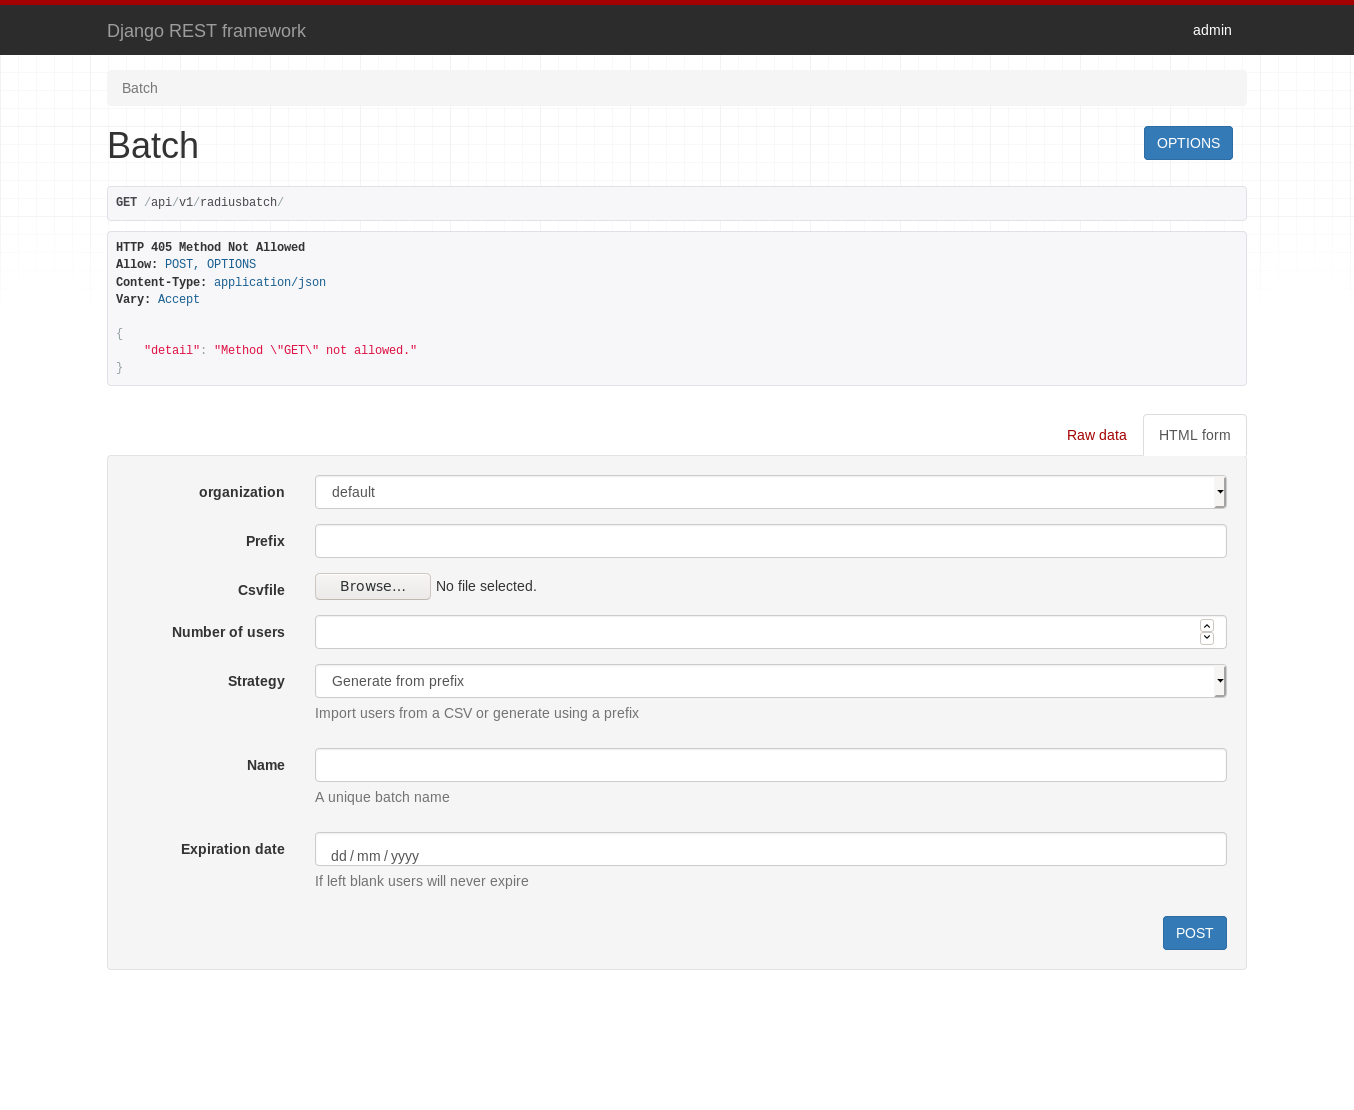
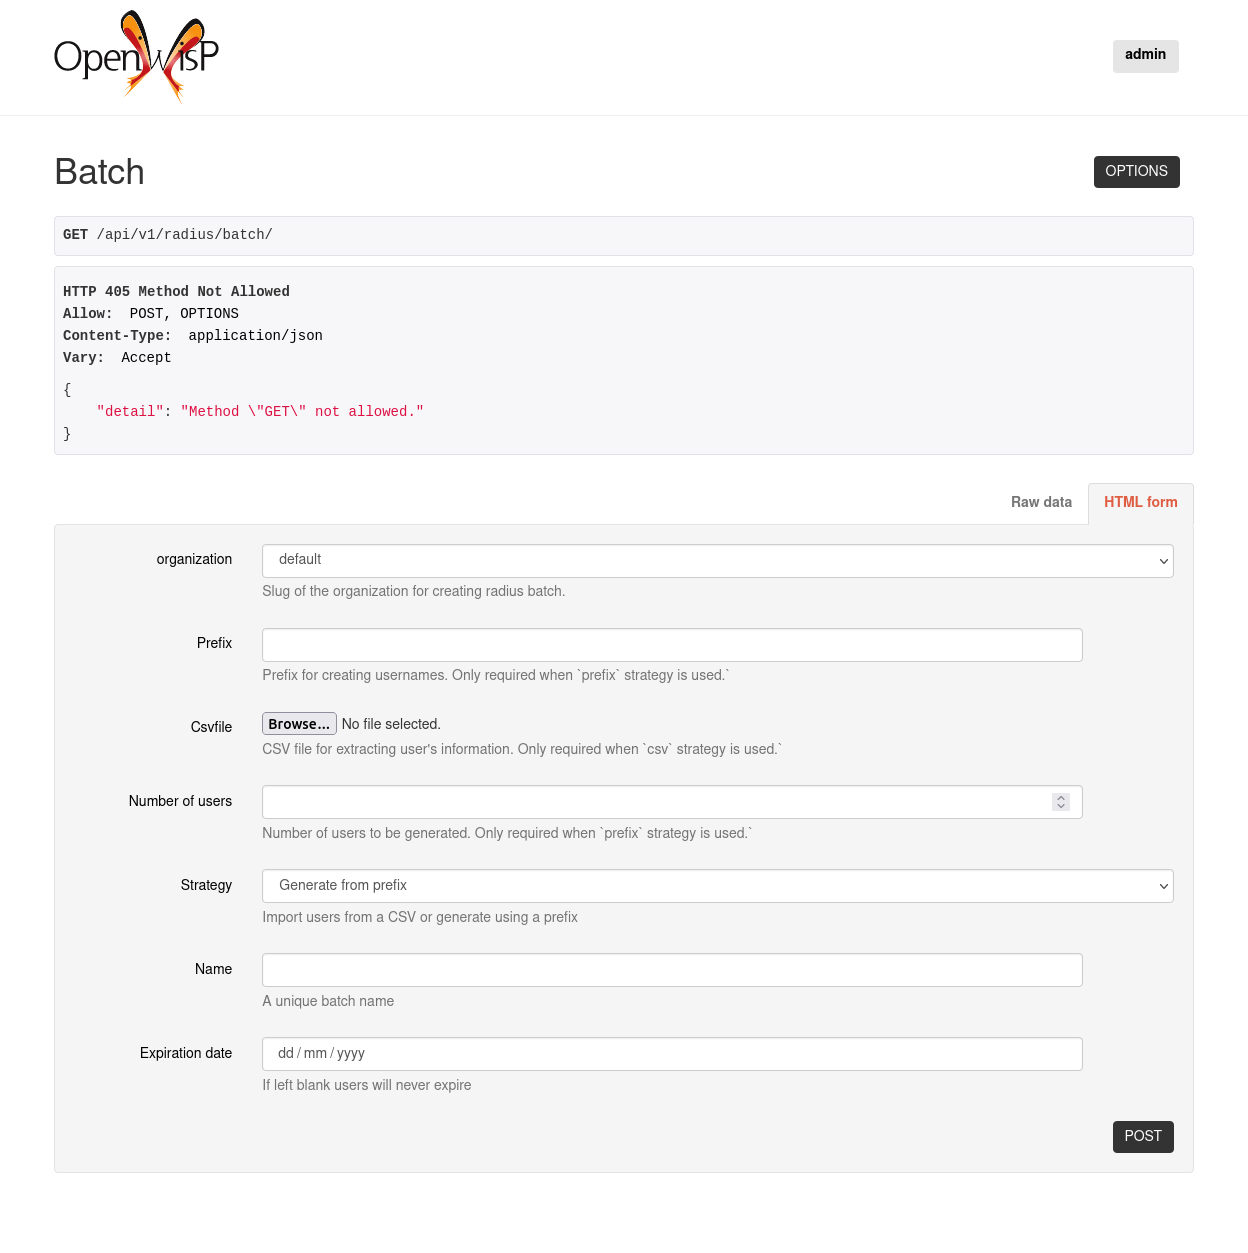
[docs] Updated screenshots to latest version of OpenWISP theme #403
- Updated screenshots and GIF animations available in th
  documentation to the latest version of the openwisp theme
- Removed the main GIF shown in the README and index
  of the sphinx docs.

Closes #403

diff --git a/README.rst b/README.rst
@@ -29,9 +29,6 @@ openwisp-radius
    :target: https://pypi.org/project/black/
    :alt: code style: black
 
-.. image:: https://github.com/openwisp/openwisp-radius/raw/master/docs/source/images/demo_radius.gif
-   :alt: Feature Highlights
-
 **OpenWISP RADIUS** provides a web interface to a `freeradius <https://freeradius.org/>`_ database,
 a rich `REST HTTP API <https://openwisp-radius.readthedocs.io/en/latest/user/api.html>`_
 and features like

diff --git a/docs/source/index.rst b/docs/source/index.rst
@@ -30,10 +30,6 @@ openwisp-radius
    :target: https://pypi.org/project/black/
    :alt: code style: black
 
-.. image:: images/demo_radius.gif
-   :alt: Feature Highlights
-
-
 **OpenWISP-RADIUS** is Django reusable app that provides an admin interface to a
 `freeradius <https://freeradius.org/>`_ database.
 
